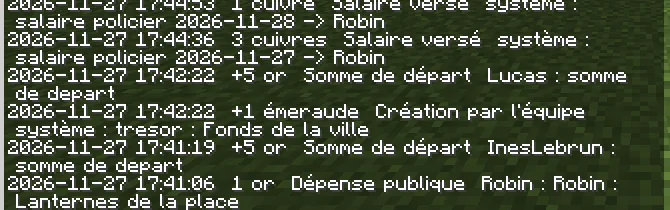
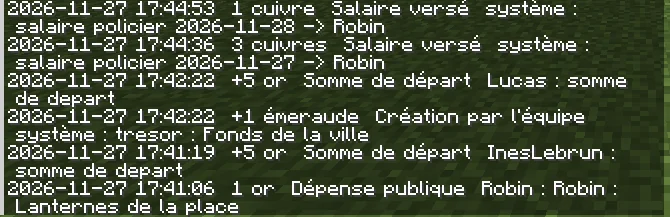
fix(wiki): deux cadrages de l'économie qui coupaient du texte

diff --git a/docs/verifications/refonte-wiki.md b/docs/verifications/refonte-wiki.md
@@ -132,3 +132,6 @@ Relecture (lots A et B, 27/11 soir), vérifié dans le code :
 - **Fournisseur** : le fondateur et l'équipe agissent sur leur propre raccordement (`PowerPairing.mayActOn`) ; seuls
   un ingénieur ou un maire clients sont refusés. Le disjoncteur s'inscrit accroupi ; debout, le clic le bascule.
 - **Bourse** : une bourse qui contient des pièces est de l'argent (`MoneyStorageRules.isMoney`), refusée aux coffres.
+
+- **Registre de l’économie : accents manquants** (vu sur la capture de `/eco ledger`, 27/11) : « tresor » et « somme de
+  depart » sont écrits sans accent dans les motifs enregistrés par le mod. Non corrigé.
